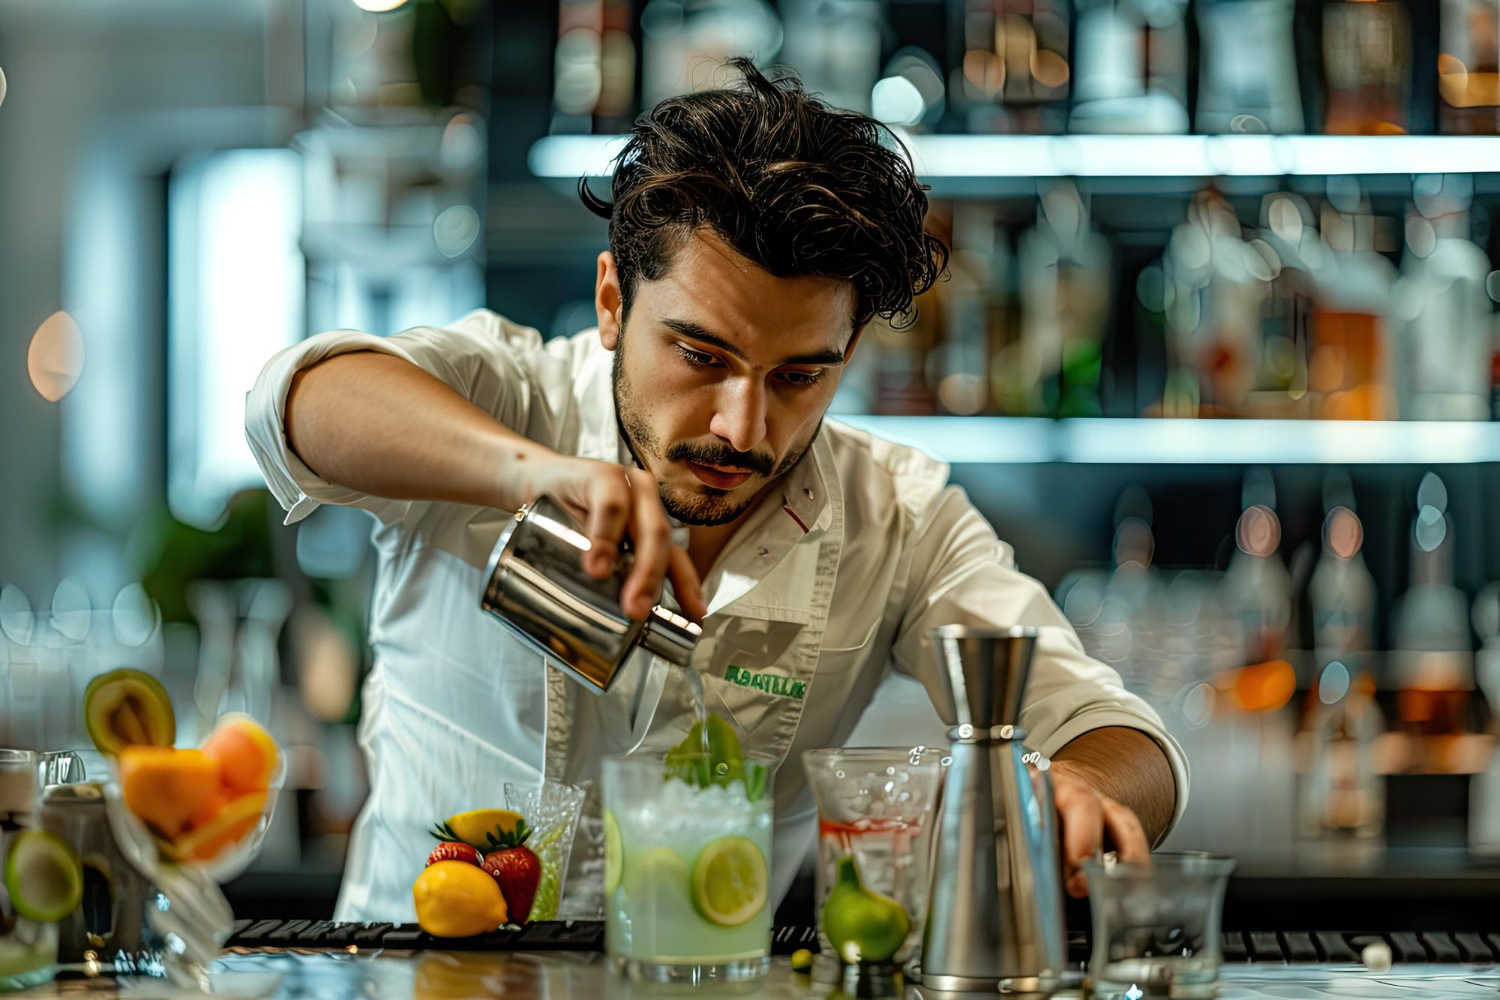
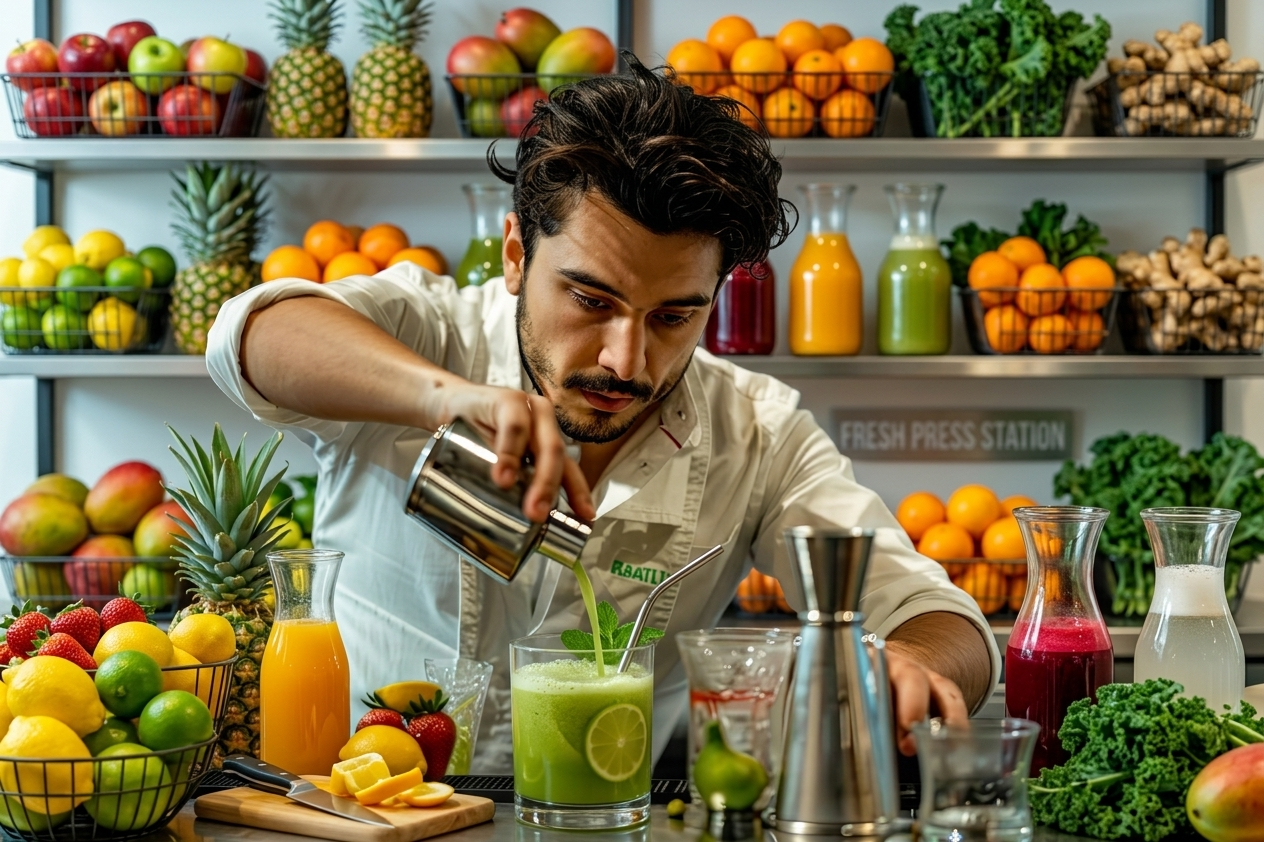
Implement Art section

diff --git a/src/components/Art.tsx b/src/components/Art.tsx
@@ -1,0 +1,101 @@
+"use client";
+import { featureLists, goodLists } from "@/constants";
+import { useGSAP } from "@gsap/react";
+import { useMediaQuery } from "react-responsive";
+import Image from "next/image";
+import gsap from "gsap";
+
+function Art() {
+  const isMobile = useMediaQuery({ maxWidth: 767 });
+
+  useGSAP(() => {
+    const start = isMobile ? "top 20%" : "top top";
+
+    const maskTimeLine = gsap.timeline({
+      scrollTrigger: {
+        trigger: "#art",
+        start,
+        end: "bottom center",
+        scrub: 1.5,
+        pin: true,
+      },
+    });
+
+    maskTimeLine
+      .to(".will-fade", { opacity: 0, stagger: 0.2, ease: "power1.inOut" })
+      .to(".masked-img", {
+        scale: 1.3,
+        maskPosition: "center",
+        maskSize: "400%",
+        duration: 1,
+        ease: "power1.inOut",
+      })
+      .to("#masked-content", { opacity: 1, duration: 1, ease: "power1.inOut" });
+  }, []);
+  return (
+    <div id="art">
+      <div className="container mx-auto h-full pt-20">
+        <h2 className="will-fade">The Art</h2>
+        <div className="content">
+          <ul className="will-fade space-y-4">
+            {goodLists.map((feature, index) => (
+              <li
+                key={`${feature}-${index}`}
+                className="flex items-center gap-2"
+              >
+                <Image
+                  src="/images/check.png"
+                  alt="check"
+                  height={16}
+                  width={16}
+                />
+                <p>{feature}</p>
+              </li>
+            ))}
+          </ul>
+
+          <div className="cocktail-img">
+            <Image
+              className="abs-center masked-img size-full object-contain"
+              src="/images/under-img.jpg"
+              alt="cocktail"
+              loading="eager"
+              width={1500}
+              height={1000}
+            />
+          </div>
+
+          <ul className="will-fade space-y-4">
+            {featureLists.map((feature, index) => (
+              <li
+                key={`${feature}-${index}`}
+                className="flex items-center justify-start gap-2"
+              >
+                <Image
+                  src="/images/check.png"
+                  alt="check"
+                  height={16}
+                  width={16}
+                />
+                <p>{feature}</p>
+              </li>
+            ))}
+          </ul>
+        </div>
+
+        <div className="masked-container">
+          <h2 className="will-fade">Sip-Worthy Perfection</h2>
+          <div id="masked-content">
+            <h3>Made with Craft, Pour with Passion</h3>
+            <p>
+              This isn’t just a drink. It’s a carefully crafted moment made just
+              for you.
+            </p>
+          </div>
+        </div>
+      </div>
+    </div>
+  );
+}
+
+export default Art;

diff --git a/src/components/About.tsx b/src/components/About.tsx
@@ -20,7 +20,7 @@ function About() {
           scrub: true,
           //   toggleActions: "play none none reverse", // Plays forward, reverses on scroll back
         },
-        xPercent: (index) => index * 50,
+        xPercent: (index) => index * 70,
         duration: 1,
         ease: "power1.inOut",
         stagger: 0.1,
@@ -131,7 +131,8 @@ function About() {
               detail — from the first muddle to the final garnish. That care is
               what turns a simple drink into something truly memorable.
             </p>
-            <div className="flex flex-row justify-between">
+            <p className="text-white">{"⭐".repeat(5)}</p>
+            <div className="flex flex-row justify-items-start gap-0 sm:justify-between">
               <div>
                 <p className="text-xl font-bold md:text-3xl">
                   <span>4.5</span>/5

diff --git a/src/app/globals-land.css b/src/app/globals-land.css
@@ -4,17 +4,17 @@
   @apply flex items-center justify-center;
 }
 
-.land-scope {
-  @layer components {
+@layer components {
+  .land-scope {
     main {
       @apply w-full overflow-x-hidden;
     }
 
     nav {
-      @apply fixed z-50 w-full;
+      @apply fixed inset-x-0 top-0 z-50 w-full;
 
       div {
-        @apply container mx-auto flex flex-col items-center gap-5 px-5 py-5 md:flex-row md:justify-between lg:px-0;
+        @apply container mx-auto flex flex-col items-center gap-5 px-5 py-5 md:flex-row md:justify-between;
       }
 
       p {

diff --git a/src/app/page.tsx b/src/app/page.tsx
@@ -3,6 +3,7 @@ import "./globals-land.css";
 import Navbar from "@/components/Navbar";
 import Cocktails from "@/components/Cocktails";
 import About from "@/components/About";
+import Art from "@/components/Art";
 
 export default function Home() {
   return (
@@ -11,6 +12,7 @@ export default function Home() {
       <Hero />
       <Cocktails />
       <About />
+      <Art />
     </main>
   );
 }

diff --git a/src/constants/index.ts b/src/constants/index.ts
@@ -8,7 +8,7 @@ const navLinks = [
     title: "About Us",
   },
   {
-    id: "work",
+    id: "art",
     title: "The Art",
   },
   {
@@ -96,7 +96,7 @@ const featureLists = [
 const goodLists = [
   "Handpicked ingredients",
   "Signature techniques",
-  "Bartending artistry in action",
+  "Juice Bartending artistry in action",
   "Freshly muddled flavors",
 ];
 
